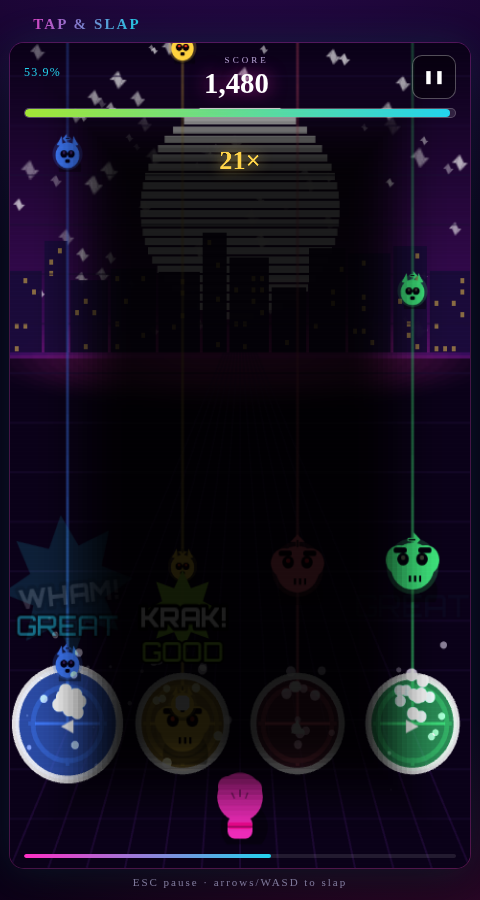
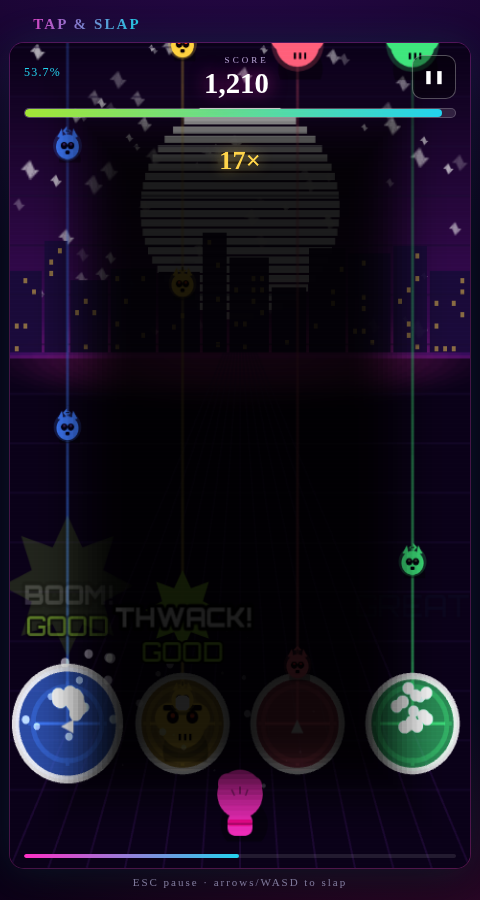
feat(share): SHARE button on results + ?level= deep links, refreshed tip copy

diff --git a/src/components/game/GameOverScreen.tsx b/src/components/game/GameOverScreen.tsx
@@ -1,6 +1,6 @@
 "use client";
 
-import { useMemo } from "react";
+import { useMemo, useState } from "react";
 import { NeonButton } from "@/components/ui/NeonButton";
 import { useGameStore } from "@/store/game-store";
 import { quitToMenu, restartRun } from "@/lib/client/game-actions";
@@ -10,12 +10,30 @@ interface GameOverScreenProps {
   onBack: () => void;
 }
 
+/** Share a run: Web Share API when available, clipboard fallback. */
+async function shareRun(result: NonNullable<ReturnType<typeof useGameStore.getState>["result"]>) {
+  const origin = typeof window !== "undefined" ? window.location.origin : "";
+  const url = `${origin}/?level=${encodeURIComponent(result.levelSlug)}`;
+  const text = `I scored ${result.score.toLocaleString("en-US")} (${result.accuracy.toFixed(1)}% accuracy) on ${result.levelTitle} in Tap & Slap — think you can beat it on the beat?`;
+  const data = { title: "Tap & Slap", text, url };
+  try {
+    if (typeof navigator !== "undefined" && navigator.share) {
+      await navigator.share(data);
+      return;
+    }
+    await navigator.clipboard.writeText(`${text} ${url}`);
+  } catch {
+    // User cancelled the share sheet or clipboard denied — not an error.
+  }
+}
+
 /**
  * Post-run results: stats grid, personal-best badge, server rank, retry/menu.
  */
 export function GameOverScreen({ onBack }: GameOverScreenProps) {
   const result = useGameStore((s) => s.result);
   const player = useGameStore((s) => s.player);
+  const [shared, setShared] = useState(false);
 
   // NOTE: all hooks must run before the early return (Rules of Hooks).
   const grade =
@@ -133,6 +151,17 @@ export function GameOverScreen({ onBack }: GameOverScreenProps) {
           <NeonButton variant="ghost" onClick={() => { quitToMenu(); onBack(); }}>
             MENU
           </NeonButton>
+          {!result.autoplay && (
+            <NeonButton
+              variant="ghost"
+              onClick={() => {
+                void shareRun(result);
+                setShared(true);
+              }}
+            >
+              {shared ? "✓ COPIED" : "⇪ SHARE"}
+            </NeonButton>
+          )}
         </div>
       </div>
     </div>

diff --git a/src/components/game/GameShell.tsx b/src/components/game/GameShell.tsx
@@ -51,6 +51,12 @@ export function GameShell() {
     if (autoplay) {
       const first = [getDailyDef(), ...getLevels()][0];
       if (first) autoStart.current = { slug: first.slug, options: { autoplay: true, qa } };
+    } else {
+      // Deep link: ?level=<slug> (used by share links) starts a real run.
+      const levelParam = params.get("level");
+      if (levelParam && [getDailyDef(), ...getLevels()].some((l) => l.slug === levelParam)) {
+        autoStart.current = { slug: levelParam, options: { autoplay: false, qa: false } };
+      }
     }
 
     // Only probe the session endpoint when a session might exist — avoids a

diff --git a/src/components/game/Menu.tsx b/src/components/game/Menu.tsx
@@ -247,8 +247,8 @@ export function Menu({ onSignIn }: MenuProps) {
       </div>
 
       <p className="menu__tip">
-        Tip: PERFECT = ≤45ms from the beat. Heavy enemies score ×1.5. Misses hurt. Keep the
-        combo alive for an 8× multiplier.
+        Tip: tap when the enemy hits the line — the pad flashes even on TOO EARLY / TOO LATE.
+        PERFECT = dead centre, heavies score ×1.5, and an 8× combo is where the big numbers live.
       </p>
       <span className="menu__muted">{baseScoreFor("normal")} pts per note</span>
     </div>

diff --git a/CHANGELOG.md b/CHANGELOG.md
@@ -50,6 +50,11 @@ All notable changes to Tap & Slap are documented here. Format follows
   (never localhost); sitemap/robots origin resolution hardened (headers →
   env → production fallback, ignoring localhost env values).
 
+### Sharing & deep links
+- Results screen gains a **SHARE** button (Web Share API with clipboard
+  fallback) that posts your score and a `?level=` challenge link.
+- `?level=<slug>` deep links start a real run straight from the URL.
+
 ## [1.1.0] — 2026-08-03
 
 ### Art rework & clarity pass
